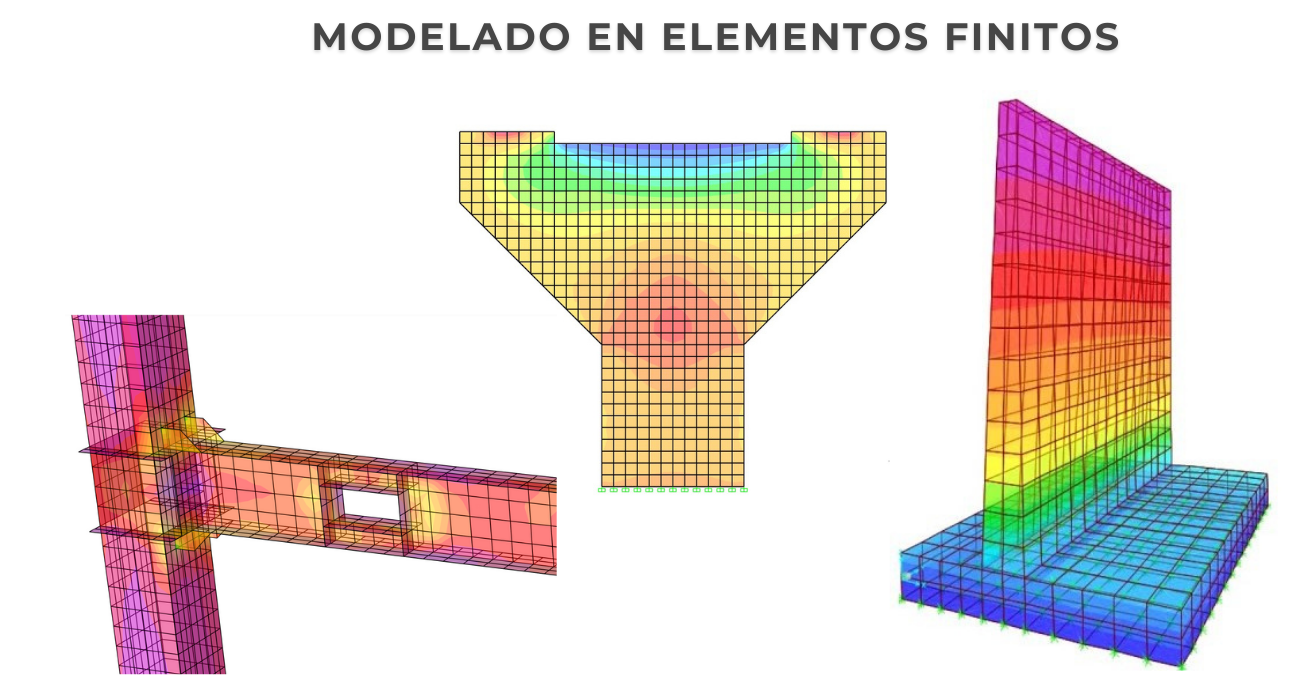
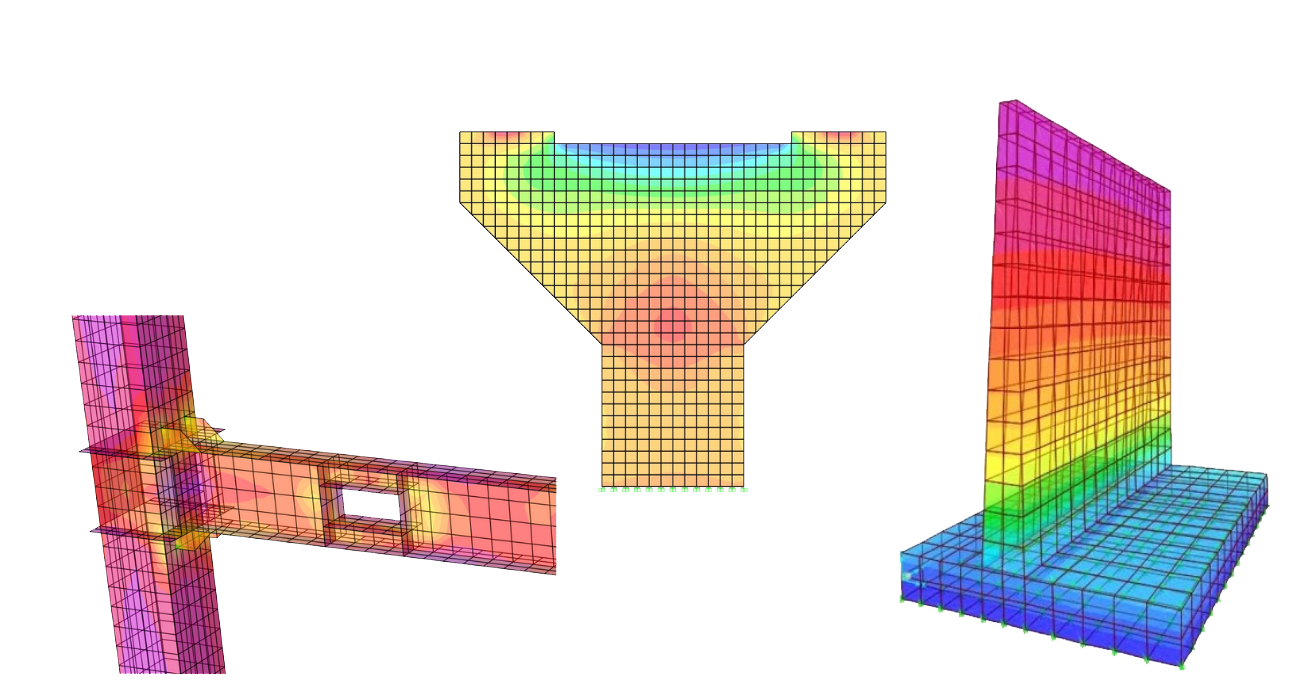
avanzamos con seccion servicios

diff --git a/src/components/Prueba/index.jsx b/src/components/Prueba/index.jsx
@@ -9,18 +9,30 @@ import imagenPrueba4 from '../../assets/cone3.png'
 
 function Prueba () {
     return(
-        <div>
-        <Carousel>
-            <Carousel.Item interval={5000}>
-                <img className='imgCarousel' src={imagenPrueba} alt="" /> 
-            </Carousel.Item>
-            <Carousel.Item interval={5000}>
-                <img className='imgCarousel' src={imagenPrueba2}  alt=""  /> 
-            </Carousel.Item>
-            <Carousel.Item>
-                <img className='imgCarousel' src={imagenPrueba4} alt="" />
-            </Carousel.Item>
-    </Carousel>
+        <div className='contenedor'>
+            <div className='caja2'>
+                <h2 className='textoFondo'>PECK</h2>
+                <h1>SERVICIOS</h1>
+                <p className='texto'>Nuestra área de desarrollo cubre fundamentalmente proyectos estructurales de Ingeniería Civil. Partiendo del análisis integral y pormenorizado de cada caso, tanto a nivel conceptual como a nivel de detalle ejecutivo, buscamos ofrecer la mejor solución al cliente atendiendo la funcionalidad del proyecto.</p>
+            </div>   
+            <div className='caja1'>
+                <Carousel>
+                    <Carousel.Item interval={5000}>
+                        <img className='imgCarousel' src={imagenPrueba} alt="" /> 
+                        <h2 className='textoImg'>MODELADO EN ELEMENTOS FINITOS</h2>
+                    </Carousel.Item>
+                    <Carousel.Item interval={5000}>
+                        <img className='imgCarousel' src={imagenPrueba2}  alt=""  />
+                        <h2 className='textoImg'>MODELADO EN ELEMENTOS FINITOS</h2> 
+                    </Carousel.Item>
+                    <Carousel.Item>
+                        <img className='imgCarousel' src={imagenPrueba4} alt="" />
+                        <h2 className='textoImg'>MODELADO EN ELEMENTOS FINITOS</h2>
+                    </Carousel.Item>
+                </Carousel>
+            </div> 
+            
+        
         </div>
         
     )

diff --git a/src/components/Prueba/prueba.css b/src/components/Prueba/prueba.css
@@ -1,8 +1,60 @@
+.contenedor{
+    display: flex;
+    align-items: center;
+    justify-content: center;
+    gap: 50px;
+    margin-bottom: 50px;
+    margin-top: 70px;
+}
+
+.carousel{
+    margin-top: 70px;
+    width: 500px;
+    opacity: .9;
+    border-top: solid 5px grey;
+    border-right: solid 5px grey;
+    border-top-right-radius: 60px;
+    padding: 10px 10px 0px 0px ;
+}
 .imgCarousel{
-    width: 60%;}
+    width: 100%;
+    opacity: .8;
+}
 
 .carousel-control-prev-icon, .carousel-control-next-icon{
     border: solid 2px black;
 background-color: black;
 border-radius: 100%;
+width: 30px;
 }
+
+.textoImg{
+    font-size: 25px;
+    text-align: center;
+    color: rgba(179, 43, 50,0.4);
+    padding: 0px 20px 0px 20px;
+    margin: 0px;
+}
+
+.texto{
+    font-size: 20px;
+    padding:0px 0px 55px 20px ;
+    text-align: justify;
+    border-bottom: solid 5px grey;
+    border-left: solid 5px grey;
+    border-bottom-left-radius:60px ;
+}
+h1{
+    margin-top: 70px;
+    font-size: 60px;
+    color: rgb(61, 61, 61);
+    letter-spacing: 15px;
+}
+
+.textoFondo{
+    font-size: 100px;
+    color: rgba(179, 43, 50,0.12);
+    position: absolute;
+    margin-left: 20px;
+}
+

diff --git a/src/components/Servicios/index.jsx b/src/components/Servicios/index.jsx
@@ -6,8 +6,7 @@ import { Prueba } from '../Prueba'
 const Servicios = () => {
     return(
         <div className='contServ'>
-            <h1>SERVICIOS</h1>
-            <p className='texto'>Nuestra área de desarrollo cubre fundamentalmente proyectos estructurales de Ingeniería Civil. Partiendo del análisis integral y pormenorizado de cada caso, tanto a nivel conceptual como a nivel de detalle ejecutivo, buscamos ofrecer la mejor solución al cliente atendiendo la funcionalidad del proyecto.</p>
+            
             <Prueba/>
             <div className='servi'>
                 <div className='serv'>

diff --git a/src/components/Servicios/servicios.css b/src/components/Servicios/servicios.css
@@ -3,7 +3,7 @@
     flex-direction: column;
     justify-content: center;
     align-items: center;
-    height: 1150px;
+    height: 800px;
     width: 90%;
     margin: 0 auto ;
     padding: 40px 0;
@@ -33,10 +33,6 @@
 .subti{
     color: white;
     margin: 10px 15px;
-}
-
-.texto{
-    margin-bottom: 30px;
 }
 
 .lista{

diff --git a/src/components/Header/header.css b/src/components/Header/header.css
@@ -7,7 +7,7 @@
     background-color: #696A6A;
     height: 55px;
     width: 100%;
-    margin: 25px auto 0;
+    margin:0 auto;
 }
 
 

diff --git a/src/components/Hero/hero.css b/src/components/Hero/hero.css
@@ -33,5 +33,5 @@
 display: flex;
 justify-content: center;
 color: white;
-margin-top: 150px;
+margin-top: 70px;
 }
